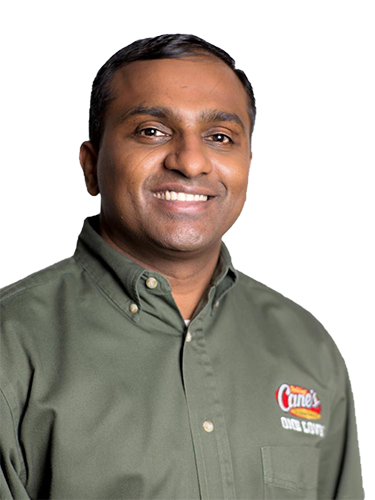
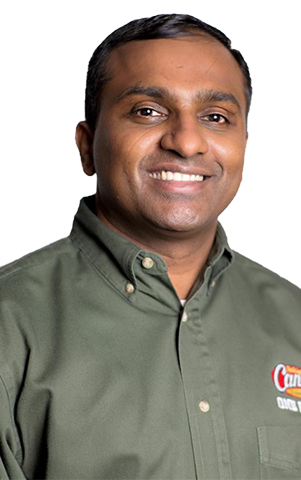
Added AJ, 2nd player, made images consistent
Added a second player, controlled via arrow keys. AJ and Todd's sprites are the exact same in size, making them consistent from a resolution standpoint.

diff --git a/CanesCrusaders.py b/CanesCrusaders.py
@@ -61,7 +61,8 @@ class Player(Entity):
         self.direction[move]=state
     def __str__(self):
         return Entity.__str__(self)+",health:{}".format(self.health)
-Todd = Player("ToddPNG.png",xLength=200,yLength=200)
+Todd = Player("ToddPNG.png",xLength=125,yLength=175)
+Aj = Player("AJPNG.png",xLength=125,yLength=175)
 print(entityDisplayList[0])
 
 for i in range(len(entityDisplayList)):
@@ -92,6 +93,7 @@ def mainGameLoop():
                     pygame.quit()
                     gameEnd = True
                     os._exit(1)
+                #Todd's 4 directional movement engaged
                 if event.key == pygame.K_w:
                     Todd.movement("up",True)
                 if event.key == pygame.K_a:
@@ -100,7 +102,17 @@ def mainGameLoop():
                     Todd.movement("down",True)
                 if event.key == pygame.K_d:
                     Todd.movement("right",True)
+                #AJ's 4 directional movement engaged
+                if event.key == pygame.K_UP:
+                    Aj.movement("up",True)
+                if event.key == pygame.K_LEFT:
+                    Aj.movement("left",True)
+                if event.key == pygame.K_DOWN:
+                    Aj.movement("down",True)
+                if event.key == pygame.K_RIGHT:
+                    Aj.movement("right",True)
             if event.type==pygame.KEYUP:
+                #Todd's 4 directional movement disengaged
                 if event.key == pygame.K_w:
                     Todd.movement("up",False)
                 if event.key == pygame.K_a:
@@ -109,7 +121,17 @@ def mainGameLoop():
                     Todd.movement("down",False)
                 if event.key == pygame.K_d:
                     Todd.movement("right",False)
+                #AJ's 4 directional movement disengaged
+                if event.key == pygame.K_UP:
+                    Aj.movement("up",False)
+                if event.key == pygame.K_LEFT:
+                    Aj.movement("left",False)
+                if event.key == pygame.K_DOWN:
+                    Aj.movement("down",False)
+                if event.key == pygame.K_RIGHT:
+                    Aj.movement("right",False)
         playerMove(Todd)
+        playerMove(Aj)
         fps.tick(30)
         for i in range(len(entityDisplayList)):
             gameDisplay.blit(entityDisplayList[i].image,(entityDisplayList[i].xPos,entityDisplayList[i].yPos))
